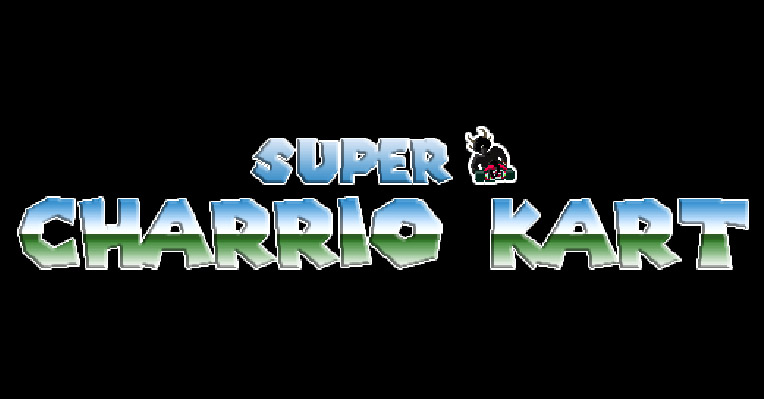
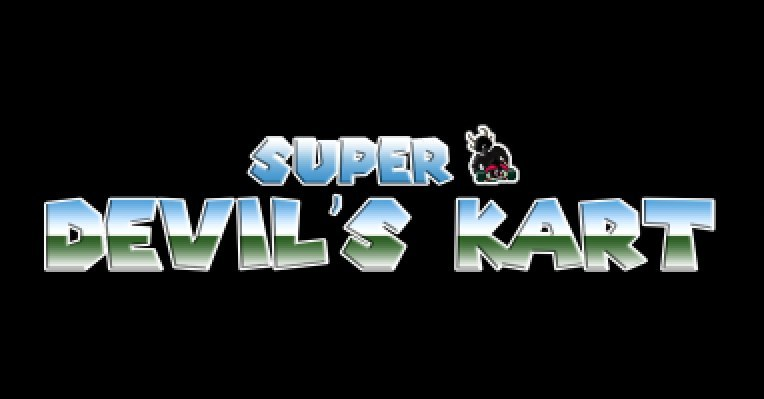
commit

Changed region(s): [[0.0, 0.3008, 0.9935, 0.6917]]

diff --git a/CharrioKart-master/index.html b/CharrioKart-master/index.html
@@ -8,20 +8,8 @@
     <meta name="viewport" content="width=device-width, initial-scale=1.0, maximum-scale=1.0, user-scalable=no" />
     <link rel="canonical">
 
-    <meta name="description" content="that_shaman's Super Charrio Kart">
-    <meta name="keywords" content="GW2, guild wars 2, Charr, Game, Race, Racing, that_shaman, that shaman, shaman">
-
-    <meta property="og:title" content="that_shaman's Super Charrio Kart" />
-    <meta property="og:image" content="http://charrio.thatshaman.com/graphics/cards/square.jpg" />
-    <meta property="og:type" content="website" />
-
-    <meta name="twitter:card" content="summary_large_image">
-    <meta name="twitter:site" content="@that_shaman">
-    <meta name="twitter:creator" content="@that_shaman">
-    <meta name="twitter:title" content="that_shaman's Super Charrio Kart">
-    <meta name="twitter:description" content="Fire up your engine and race around Tyria!">
-    <meta name="twitter:image" content="http://charrio.thatshaman.com/graphics/cards/large.jpg">
-
+    <meta name="description" content="Super Devil's Kart">
+    
     <link href="https://fonts.googleapis.com/css?family=Press+Start+2P" rel="stylesheet"> 
     <link href="https://fonts.googleapis.com/css?family=VT323" rel="stylesheet">
     <link href="style.css" rel="stylesheet" />

diff --git a/CharrioKart-master/README.md b/CharrioKart-master/README.md
@@ -1,1 +1,1 @@
-Project X
+JavaScript Game
